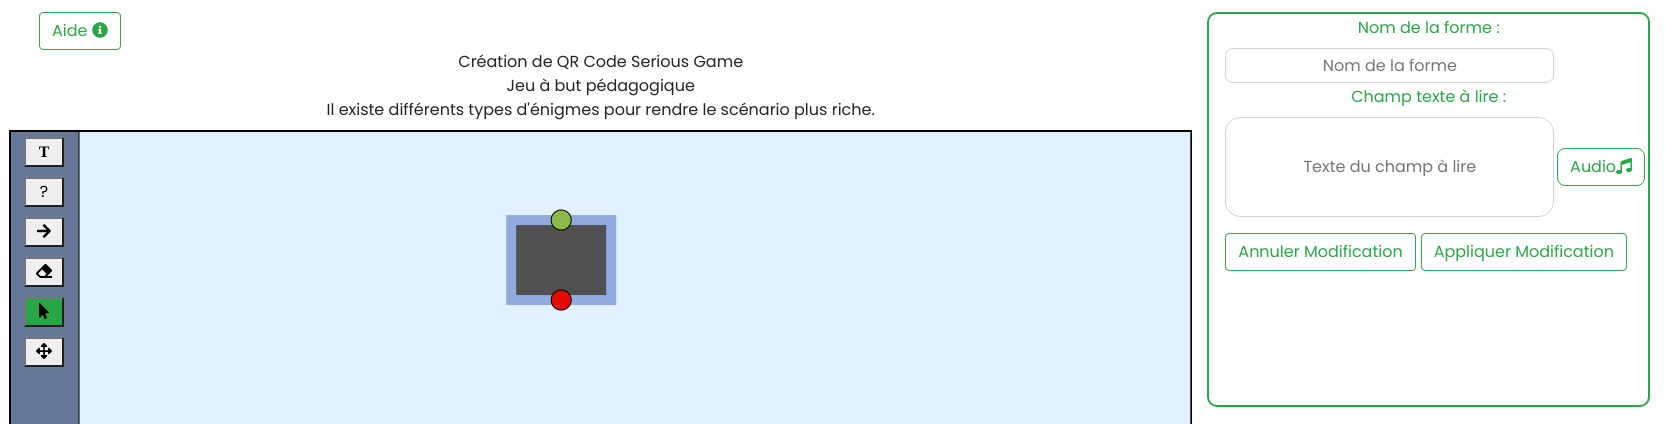
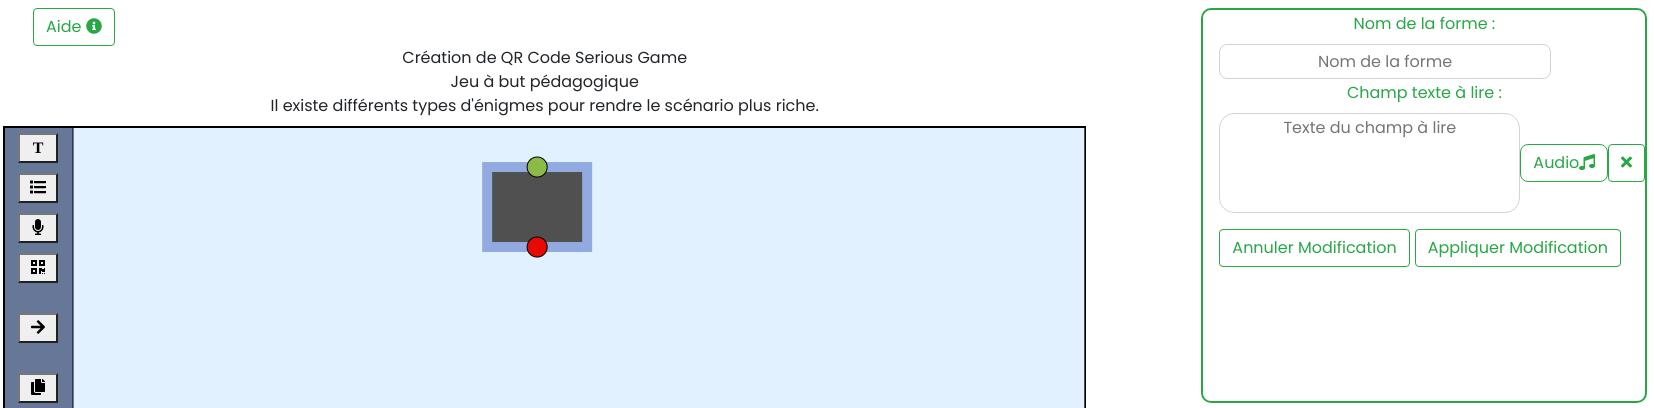
Mis à jour de l'aide SG

diff --git a/app/rendererProcess/view/aide/info.html b/app/rendererProcess/view/aide/info.html
@@ -216,50 +216,59 @@
             allowfullscreen></iframe> -->
           <ul>
             <li>Pour accéder à l'exercice Serious Game il faut cliquer sur l'icône suivante :     <img src="../rendererProcess/assets/images/infos_serious_game/boutonSeriousGame.png"></li>
-            <li><br /></li>
+            <li><br/></li>
             <li>La zone de création de l'exercice va alors s'afficher :
-              <br />
+              <br/>
               <img src="../rendererProcess/assets/images/infos_serious_game/zoneSeriousGame.png" height="500px">
             </li>
-            <li><br /></li>
+            <li><br/></li>
             <li>L'objectif de cette exercice est de pouvoir créer une histoire composée d'énigmes.</li>
             <li>Pour cela vous avez à votre dispostion une palette qui permet de créer les différentes étapes de l'histoire par le biais de noeuds et de flèches.</li>
             <li>
               <table>
                 <tr>
                   <td>
-                    <img src="../rendererProcess/assets/images/infos_serious_game/paletteSeriousGame.png" height="280px">
+                    <img src="../rendererProcess/assets/images/infos_serious_game/paletteSeriousGame.png">
                   </td>
                   <td>
                     <ol>
                       <li>Un bouton pour créer un noeud de texte</li>
-                      <br />
-                      <li>Un bouton pour créer un noeud de question</li>
-                      <br />
+                      <br/>
+                      <li>Un bouton pour créer un noeud de question de type QCM</li>
+                      <br/>
+                      <li>Un bouton pour créer un noeud de question de type Question Ouverte</li>
+                      <br/>
+                      <li>Un bouton pour créer un noeud de question de type QR Exercice</li>
+                      <br/>
                       <li>Un bouton pour créer une flèche entre deux éléments</li>
-                      <br />
+                      <br/>
+                      <li>Un bouton pour dupliquer un noeud</li>
+                      <br/>
                       <li>Un bouton pour supprimer un élément</li>
-                      <br />
+                      <br/>
                       <li>Un bouton pour selectionner un élément</li>
-                      <br />
+                      <br/>
                       <li>Un bouton pour se déplacer sur la zone de dessin</li>
                     </ol>
                   </td>
                 </tr>
               </table>
             </li>
-            <br />
+            <br/>
             <li>Pour chacun de ces boutons vous devez cliquer sur la zone graphique pour que cela ai un effet.</li>
           </ul>
-          <br />
+          <br/>
           <ul>
-            <li>Afin d'expliquer le fonctionnement des outils, il y a deux règles à respecter pour créer un Serious Game valide : </li>
+            <li>Avant d'expliquer le fonctionnement des outils, il y a deux règles à respecter pour créer un Serious Game valide : </li>
             <ul>
+              <li>Chaque noeud doit avoir un noeud unique</li>
               <li>Une histoire doit avoir un seul noeud de départ.</li>
               <li>Une histoire doit avoir un seul noeud de fin. De plus, il est impossible de finir l'histoire par une question.</li>
+              <li>Tous les champs de chaque forme doivent être rempli</li>
             </ul>
+            <li>Si une de ces règles n'est pas respecté une erreur vous sera affiché lors de la génération. De plus, les noeuds concerné seront affiché en rouge afin que vous puissiez les repérer</li>
           </ul>
-          <br />
+          <br/>
           <ul>
             <li><u>Fonctionnement des outils : </u></li>
             <ol>
@@ -271,28 +280,63 @@
                 <li><strong>À chaque fois que vous modifiez des informations dans le formulaire il est nécessaire de cliquer sur le bouton "Appliquer modification".</strong></li>
                 <li><strong>Sinon les dernières informations non enregistrées seront perdues</strong></li>
                 <li>
-                  <img src="../rendererProcess/assets/images/infos_serious_game/texteSeriousGame.png" height="400px"">
+                  <img src="../rendererProcess/assets/images/infos_serious_game/texteSeriousGame.png" height="400px">
                 </li>
-                <br />
+                <br/>
                 <li>Chaque champ est obligatoire, le nom de la forme doit être unique et sert à afficher un nom sur la forme afin de pouvoir la différencier des différents noeuds. Quant au champ suivant c'est le texte qui sera lu lors de la lecture du noeud sur l'application mobile QR Ludo. </li>
-                <br />
+                <br/>
               </ul>
-              <li><u>Noeud question</u></li>
+              <li><u>Noeud QCM</u></li>
               <ul>
-                <li>Un noeud question est représenté par un triangle qui possède un point d'entrée et un point de sortie par réponses possibles à la question.</li>
-                <li>Ce noeud question représente une étape dans l'histoire où il faudra répondre oralement à une question.</li>
+                <li>Un noeud QCM est représenté par un triangle vert qui possède un point d'entrée et un point de sortie par réponses possibles à la question.</li>
+                <li>Ce noeud représente une étape dans l'histoire où il faudra répondre oralement à une question sous forme d'un QCM.</li>
                 <li>Pour remplir les informations du noeud, lorsque vous cliquez sur la forme une nouvelle zone apparaît à la droite de votre écran où un formulaire est mis à votre disposition afin de remplir les informations du noeud.</li>
                 <li><strong>À chaque fois que vous modifiez des informations dans le formulaire il est nécessaire de cliquer sur le bouton "Appliquer modification".</strong></li>
                 <li><strong>Sinon les dernières informations non enregistrées seront perdues</strong></li>
                 <li>
-                  <img src="../rendererProcess/assets/images/infos_serious_game/questionSeriousGame.png" height="400px"">
+                  <img src="../rendererProcess/assets/images/infos_serious_game/QCMSeriousGame.png" height="400px">
                 </li>
-                <br />
+                <br/>
                 <li>Chaque champ est obligatoire, le nom de la forme doit être unique et sert à afficher un nom sur la forme afin de pouvoir la différencier des différents noeuds.</li>
                 <li>Le champ question est la question qui sera lu lors de la lecture du QR Code sur l'application mobile QR Ludo.</li>
                 <li>Ensuite, il est possible de définir les réponses possibles afin de répondre à la question</li>
               </ul>
-              <br />
+              <br/>
+              <li><u>Noeud Question Ouverte</u></li>
+              <ul>
+                <li>Un noeud Question Ouverte est représenté par un triangle jaune qui possède un point d'entrée et un point de sortie par réponses possibles à la question.</li>
+                <li>Ce noeud représente une étape dans l'histoire où il faudra répondre oralement à une question.</li>
+                <li>Pour remplir les informations du noeud, lorsque vous cliquez sur la forme une nouvelle zone apparaît à la droite de votre écran où un formulaire est mis à votre disposition afin de remplir les informations du noeud.</li>
+                <li><strong>À chaque fois que vous modifiez des informations dans le formulaire il est nécessaire de cliquer sur le bouton "Appliquer modification".</strong></li>
+                <li><strong>Sinon les dernières informations non enregistrées seront perdues</strong></li>
+                <li>
+                  <img src="../rendererProcess/assets/images/infos_serious_game/QOSeriousGame.png" height="400px">
+                </li>
+                <br/>
+                <li>Chaque champ est obligatoire, le nom de la forme doit être unique et sert à afficher un nom sur la forme afin de pouvoir la différencier des différents noeuds.</li>
+                <li>Le champ question est la question qui sera lu lors de la lecture du QR Code sur l'application mobile QR Ludo.</li>
+                <li>Ensuite, il est possible de définir les réponses possibles afin de répondre à la question.</li>
+                <li>Pour cela, la première question est non modifiable et correspond à la réponse en cas de mauvaise réponse.</li>
+                <li>Tout autres réponses que vous ajouterez seront considérées comme une bonne réponse. Il vous est conseillé de préciser des mots-clés comme réponse.</li>
+              </ul>
+              <br/>
+              <li><u>Noeud Question QR</u></li>
+              <ul>
+                <li>Un noeud Question QR est représenté par un triangle bleu qui possède un point d'entrée et un point de sortie par réponses possibles à la question.</li>
+                <li>Ce noeud représente une étape dans l'histoire où il faudra répondre à l'aide d'un QR Unique à une question.</li>
+                <li>Pour remplir les informations du noeud, lorsque vous cliquez sur la forme une nouvelle zone apparaît à la droite de votre écran où un formulaire est mis à votre disposition afin de remplir les informations du noeud.</li>
+                <li><strong>À chaque fois que vous modifiez des informations dans le formulaire il est nécessaire de cliquer sur le bouton "Appliquer modification".</strong></li>
+                <li><strong>Sinon les dernières informations non enregistrées seront perdues</strong></li>
+                <li>
+                  <img src="../rendererProcess/assets/images/infos_serious_game/QRSeriousGame.png" height="400px">
+                </li>
+                <br/>
+                <li>Chaque champ est obligatoire, le nom de la forme doit être unique et sert à afficher un nom sur la forme afin de pouvoir la différencier des différents noeuds.</li>
+                <li>Le champ question est la question qui sera lu lors de la lecture du QR Code sur l'application mobile QR Ludo.</li>
+                <li>Ensuite, il est possible de définir les réponses possibles afin de répondre à la question.</li>
+                <li>Pour cela, vous devez cliquez sur le bouton QR à côté de chaque réponse pour choisir un QR Unique sur votre ordinateur</li>
+              </ul>
+              <br/>
               <li><u>Les flèches</u></li>
               <ul>
                 <li>Les flèches ont pour but de relier les noeuds entre eux afin de déterminer l'ordre de lecture de l'histoire.</li>
@@ -303,17 +347,40 @@
                   <li>Chaque noeud, sauf le dernier noeud de l'histoire, doit avoir une flèche et seulement une pour chacun de ces points de sortie</li>
                   <li>Chaque noeud, sauf le premier noeud de l'histoire, doit avoir au moins une flèche à son point d'entrée</li>
                 </ul>
-                <br />
+                <br/>
                 <li>Voici un exemple de schéma possible : </li>
                 <li>
                   <img src="../rendererProcess/assets/images/infos_serious_game/flecheSeriousGame.png" height="500px">
                 </li>
               </ul>
-              <br />
+              <br/>
+              <li><u>La duplication de noeud</u></li>
+              <ul>
+                <li>En cliquant sur le 6ème bouton de la palette vous avez la possibilité de dupliquer un noeud existant ainsi que tous ces champs.</li>
+              </ul>
+              <br/>
+              <li><u>La suppresion</u></li>
+              <ul>
+                <li>Pour supprimer un élément vous avez deux possibilités : </li>
+                <ul>
+                  <li>Utiliser le bouton du clavier <i>Suppr</i>. Cette méthode permet seulement de supprimer un noeud. Pour cela, il vous suffit de cliquer sur le noeud que vous souhaitez supprimer puis le bouton <i>Suppr</i>.</li>
+                  <li>Utiliser le 7ème bouton de la palette. Pour cela, il faut cliquer sur ce bouton puis sur le noeud que vous souhaitez supprimer.</li>
+                </ul>
+              </ul>
+              <br/>
+              <li><u>La sélection</u></li>
+              <ul>
+                <li>Vous pouvez sélectionner des noeuds à l'aide du 8ème bouton de la palette.</li>
+              </ul>
+              <br/>
+              <li><u>Le déplacement</u></li>
+              <ul>
+                <li>Vous pouvez déplacer l'ensemble du dessin avec le 9ème bouton de la palette.</li>
+              </ul>
               <li><u>Le zoom</u></li>
               <ul>
                 <li>Vous avez à votre dispostion une barre de zoom en bas à droite de la zone de dessin.</li>
-                <li>Vous pouvez aussi zoomer ou dézoomer à l'aide de la molette de la souris</li>
+                <li>Vous pouvez aussi zoomer ou dézoomer à l'aide de la molette de la souris.</li>
               </ul>
             </ol>
           </ul>

diff --git a/app/rendererProcess/view/seriousGame/seriousGame.html b/app/rendererProcess/view/seriousGame/seriousGame.html
@@ -11,7 +11,7 @@
                     </div>
                     <div class="text-center" id="textPresentation">
                         Création de QR Code Serious Game<br>
-                        Jeu à but pédagogique <br />
+                        Jeu à but pédagogique <br/>
                         Il existe différents types d'énigmes pour rendre le scénario plus riche.
                     </div>
                     <div class="mt-2" id="messages"></div>

diff --git a/app/rendererProcess/model/SGQuestionQCMNode.js b/app/rendererProcess/model/SGQuestionQCMNode.js
@@ -64,7 +64,7 @@ class SGQuestionQCMNode extends SGNode {
 		input_name.id('input_node_name');
 		input_name.class('text-titre-input input-lg')
 		input_name.parent('displayQuestionZone');
-		input_name.attribute('placeholder', 'Nom de la question')
+		input_name.attribute('placeholder', 'Nom de la forme')
 		// Si le champ name est vide on l'affiche en rouge
 		if (this.containError && this.name == "")
 			input_name.style('border: 2px solid red');

diff --git a/app/rendererProcess/model/SGQuestionQONode.js b/app/rendererProcess/model/SGQuestionQONode.js
@@ -64,7 +64,7 @@ class SGQuestionQONode extends SGNode {
 		input_name.id('input_node_name');
 		input_name.class('text-titre-input input-lg')
 		input_name.parent('displayQuestionZone');
-		input_name.attribute('placeholder', 'Nom de la question')
+		input_name.attribute('placeholder', 'Nom de la forme')
 		// Si le champ name est vide on l'affiche en rouge
 		if (this.containError && this.name == "")
 			input_name.style('border: 2px solid red');

diff --git a/app/rendererProcess/model/SGQuestionQRNode.js b/app/rendererProcess/model/SGQuestionQRNode.js
@@ -64,7 +64,7 @@ class SGQuestionQRNode extends SGNode {
 		input_name.id('input_node_name');
 		input_name.class('text-titre-input input-lg')
 		input_name.parent('displayQuestionZone');
-		input_name.attribute('placeholder', 'Nom de la question')
+		input_name.attribute('placeholder', 'Nom de la forme')
 		// Si le champ name est vide on l'affiche en rouge
 		if (this.containError && this.name == "")
 			input_name.style('border: 2px solid red');

diff --git a/app/rendererProcess/view/seriousGame/old_seriousGame.html b/app/rendererProcess/view/seriousGame/old_seriousGame.html
@@ -6,7 +6,7 @@
     </div>
     <div class="text-center" id="textPresentation">
         Création de QR Code Serious Game<br>
-        Jeu à but pédagogique <br />
+        Jeu à but pédagogique <br/>
         Il existe différents types d'énigmes pour rendre le scénario plus riche.
     </div>
     <div class="alert alert-success" role="alert" id="alertExportationOk" style="display:none"> Votre projet a bien été

diff --git a/app/rendererProcess/view/accueil/accueil.html b/app/rendererProcess/view/accueil/accueil.html
@@ -23,7 +23,7 @@
   </ul>
   </br>
   <h5>Serious Game</h5>
-  <p>Jeu à but pédagogique. <br />
+  <p>Jeu à but pédagogique. <br/>
   Il existe différents types d'énigmes pour rendre le scénario plus riche.</p>
   </br>
 </div>
